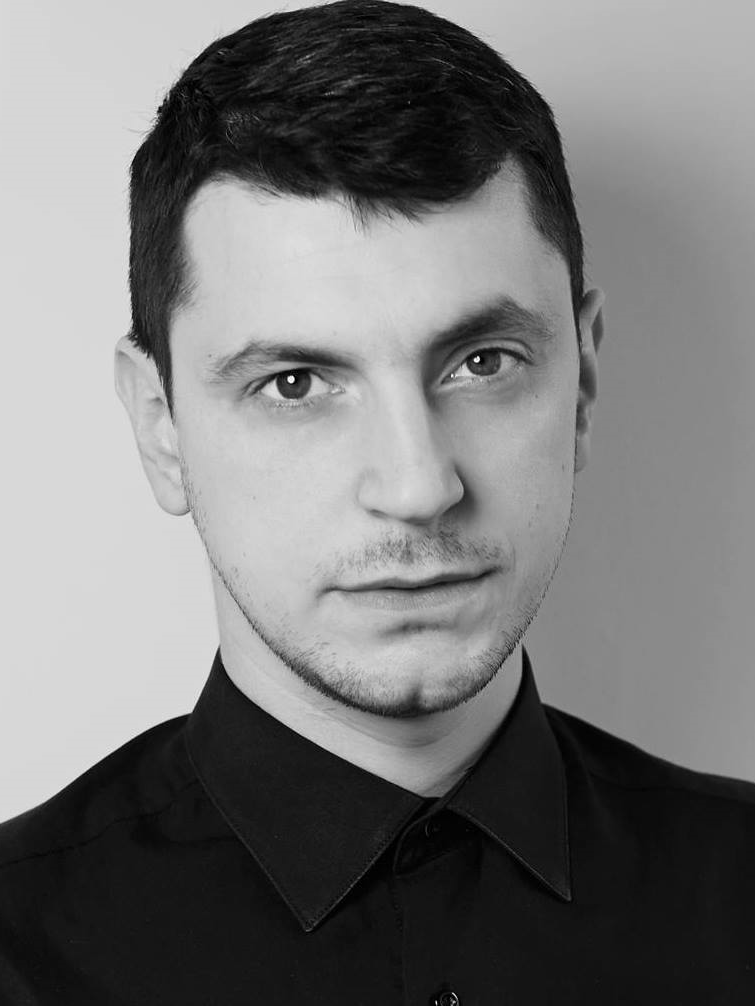
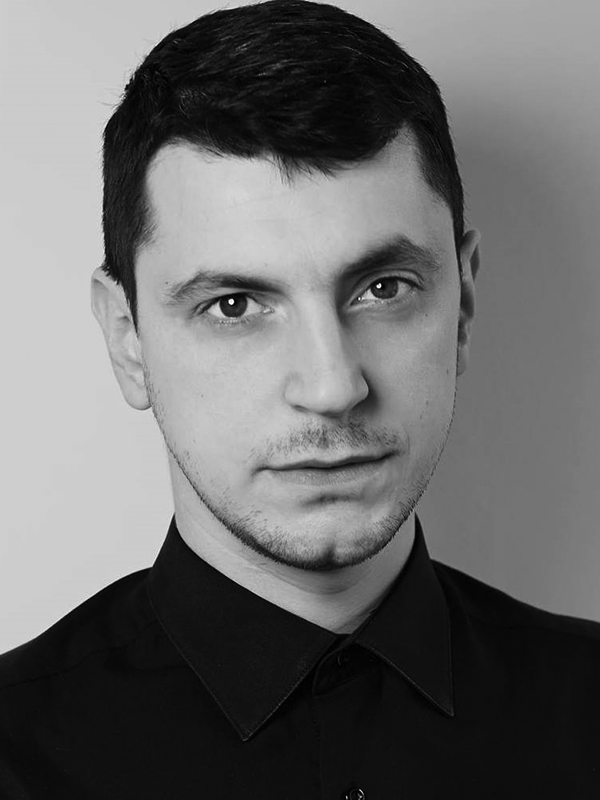
UI overhaul

diff --git a/speakers.html b/speakers.html
@@ -1,1 +1,1 @@
-<!DOCTYPE html><html lang="en"><head><meta charset="UTF-8"><meta name="viewport" content="width=device-width, initial-scale=1.0"><meta http-equiv="X-UA-Compatible" content="ie=edge"><meta property="og:title" content="LvivCSS 2019"><meta property="og:type" content="website"><meta property="og:image" content="https://lvivcss.org/assets/images/og-index/cover.jpg"><meta property="og:url" content="https://lvivcss.org/"><meta property="og:description" content="LvivCSS повертається, щоб стати ще кращою, цікавішою і найнезвичайнішою подією року! LvivCSS — конференція про симбіоз дизайну та розробки, про найкращі практики створення красивого і зручного. І, звичайно ж, це про дружню атмосферу, нові знайомства і нові враження! Не проґав свій шанс прийняти участь в одній з найкрутіших frontend-конференцій України!"><link rel="shortcut icon" href="./assets/icons/1x/favicon.png" type="image/x-icon"><link rel="stylesheet" href="css/fonts.css"><link rel="stylesheet" href="css/general.css"><link rel="stylesheet" href="css/layout.css"><link rel="stylesheet" href="css/typography.css"><link rel="stylesheet" href="css/logo.css"><link rel="stylesheet" href="css/nav.css" media="all"><link rel="stylesheet" href="css/nav.landscape.css" media="(orientation: landscape)"><link rel="stylesheet" href="css/nav.portrait.css" media="(orientation: portrait)"><title>LvivCSS'2019</title><link rel="stylesheet" href="css/speaker.css"></head><body class="page"><nav class="navigation"><a class="navigation-link" href="/">Головна</a><a class="navigation-link active" href="/speakers.html">Спікери</a><a class="navigation-link" href="/tickets.html">Квитки</a><a class="navigation-link" href="/partners.html">Партнери</a><a class="navigation-link" href="/contacts.html">Контакти</a><p class="rainbow-symbol navigation-header" tabindex="1"><span class="burger"><span class="burger-line"></span><span class="burger-line"></span><span class="burger-line"></span></span>Навігація</p></nav><div class="backdrop"></div><h1 class="logo small"><a href="./">LvivCSS'19</a></h1><h2 class="page-title sticky">Спікери</h2><section class="content columns"><article class="speaker-info"><h3>Ніч темна і повна dark pattern'ів</h3><h4>Олена Шпілевська</h4><img class="speaker-photo" src="/assets/images/speakers/shpilevska.png"><p>Розповість нам про найтемніші патерни (або патерни непрямої маніпуляції), які так полюбляє використовувати бізнес в погоні за прибутком, і які треба відсіювати на ранніх етапах розробки проекту.</p><p>Hard-boiled UX Architect, богиня верстки, щаслива, незламна мама випускників двох українських IT-шкіл і просто чудова, перманентно позитивна дівчина. Пропагує пацифізм у вирішенні конфліктів дизігнерів і девів, вчить основам людино-орієнтованого дизайну і обдуманої верстки. Любить карати злісних невиконувачів домашок і займатися йогою на галявинці ^^</p></article><article class="speaker-info"><h4>Юрій Артюх</h4><img class="speaker-photo" src="/assets/images/speakers/artyukh.png"><p>Юрій є парубок моторний, любить верстку та webgl, кавуни та бачату. Навіть якщо доповідь не зайде, зможе станцювати та розважити публіку. Наразі веде прямі трансляції на youtube та регулює технічні питання у своїй команді Coderiver. Скерував декілька мільйонів пікселів, зверстав понад 1000 макетів, провів понад 70 трансляцій про анімації, має сертифікат учасника чемпіонату з бачати, один раз випив 8 кавунових фрешів за добу.</p></article><article class="speaker-info"><h3>Без Bootstrap</h3><h4>Олександра Шинкевич</h4><img class="speaker-photo" src="/assets/images/speakers/shynkevych.png"><p>Фулстек-розробник на node.js, співорганізатор MinskCSS, MinskJS, CSS-Minsk-JS. Займається фронтендом ще зі школи, магістр технічних наук. Верстала ще таблицями, і за свою кар'єру розробника пройшла шлях від jQuery до VanillaJS, і назад до фреймворків Angular, React і Vue.js. А потім вигоріла і звільнилась з посади керівника відділу фронтенд-розробки.</p></article><p class="cliffhanger">…далі буде…</p></section></body></html>
+<!DOCTYPE html><html lang="en"><head><meta charset="UTF-8"><meta name="viewport" content="width=device-width, initial-scale=1.0"><meta http-equiv="X-UA-Compatible" content="ie=edge"><meta property="og:title" content="LvivCSS 2019"><meta property="og:type" content="website"><meta property="og:image" content="https://lvivcss.org/assets/images/og-index/cover.jpg"><meta property="og:url" content="https://lvivcss.org/"><meta property="og:description" content="LvivCSS повертається, щоб стати ще кращою, цікавішою і найнезвичайнішою подією року! LvivCSS — конференція про симбіоз дизайну та розробки, про найкращі практики створення красивого і зручного. І, звичайно ж, це про дружню атмосферу, нові знайомства і нові враження! Не проґав свій шанс прийняти участь в одній з найкрутіших frontend-конференцій України!"><link rel="shortcut icon" href="./assets/icons/1x/favicon.png" type="image/x-icon"><link rel="stylesheet" href="css/fonts.css"><link rel="stylesheet" href="css/general.css"><link rel="stylesheet" href="css/layout.css"><link rel="stylesheet" href="css/typography.css"><link rel="stylesheet" href="css/logo.css"><link rel="stylesheet" href="css/logo.320.css" media="(max-width: 320px)"><link rel="stylesheet" href="css/nav.css" media="all"><link rel="stylesheet" href="css/nav.landscape.css" media="(orientation: landscape)"><link rel="stylesheet" href="css/nav.portrait.css" media="(orientation: portrait)"><title>Спікери LvivCSS'2019</title><link rel="stylesheet" href="css/speaker.css"></head><body class="page"><nav class="navigation"><a class="navigation-link" href="/">Головна</a><a class="navigation-link active" href="/speakers.html">Спікери</a><a class="navigation-link" href="/tickets.html">Квитки</a><a class="navigation-link" href="/partners.html">Партнери</a><a class="navigation-link" href="/contacts.html">Контакти</a><p class="rainbow-symbol navigation-header" tabindex="1"><span class="burger"><span class="burger-line"></span><span class="burger-line"></span><span class="burger-line"></span></span>Навігація</p></nav><div class="backdrop"></div><h1 class="logo small"><a href="./">LvivCSS'19</a></h1><h2 class="page-title sticky">Наші спікери<a class="action-link" href="./call-for-papers.html">стати спікером</a></h2><section class="content columns"><article class="speaker-info"><h3>Ніч темна і повна dark pattern'ів</h3><h4>Олена Шпілевська</h4><img class="speaker-photo" src="/assets/images/speakers/shpilevska.jpg" alt="Олена Шпілевська"><p>Розповість нам про найтемніші патерни (або патерни непрямої маніпуляції), які так полюбляє використовувати бізнес в погоні за прибутком, і які треба відсіювати на ранніх етапах розробки проекту.</p><p>Hard-boiled UX Architect, богиня верстки, щаслива, незламна мама випускників двох українських IT-шкіл і просто чудова, перманентно позитивна дівчина. Пропагує пацифізм у вирішенні конфліктів дизігнерів і девів, вчить основам людино-орієнтованого дизайну і обдуманої верстки. Любить карати злісних невиконувачів домашок і займатися йогою на галявинці ^^</p></article><article class="speaker-info"><h4>Юрій Артюх</h4><img class="speaker-photo" src="/assets/images/speakers/artyukh.jpg" alt="Юрій Артюх"><p>Юрій є парубок моторний, любить верстку та webgl, кавуни та бачату. Навіть якщо доповідь не зайде, зможе станцювати та розважити публіку. Наразі веде прямі трансляції на youtube та регулює технічні питання у своїй команді Coderiver. Скерував декілька мільйонів пікселів, зверстав понад 1000 макетів, провів понад 70 трансляцій про анімації, має сертифікат учасника чемпіонату з бачати, один раз випив 8 кавунових фрешів за добу.</p></article><article class="speaker-info"><h3>Без Bootstrap</h3><h4>Олександра Шинкевич</h4><img class="speaker-photo" src="/assets/images/speakers/shynkevych.jpg" alt="Олександра Шинкевич"><p>Фулстек-розробник на node.js, співорганізатор MinskCSS, MinskJS, CSS-Minsk-JS. Займається фронтендом ще зі школи, магістр технічних наук. Верстала ще таблицями, і за свою кар'єру розробника пройшла шлях від jQuery до VanillaJS, і назад до фреймворків Angular, React і Vue.js. А потім вигоріла і звільнилась з посади керівника відділу фронтенд-розробки.</p></article><p class="cliffhanger">…далі буде…</p></section></body></html>

diff --git a/partners.html b/partners.html
@@ -1,1 +1,1 @@
-<!DOCTYPE html><html lang="en"><head><meta charset="UTF-8"><meta name="viewport" content="width=device-width, initial-scale=1.0"><meta http-equiv="X-UA-Compatible" content="ie=edge"><meta property="og:title" content="LvivCSS 2019"><meta property="og:type" content="website"><meta property="og:image" content="https://lvivcss.org/assets/images/og-index/cover.jpg"><meta property="og:url" content="https://lvivcss.org/"><meta property="og:description" content="LvivCSS повертається, щоб стати ще кращою, цікавішою і найнезвичайнішою подією року! LvivCSS — конференція про симбіоз дизайну та розробки, про найкращі практики створення красивого і зручного. І, звичайно ж, це про дружню атмосферу, нові знайомства і нові враження! Не проґав свій шанс прийняти участь в одній з найкрутіших frontend-конференцій України!"><link rel="shortcut icon" href="./assets/icons/1x/favicon.png" type="image/x-icon"><link rel="stylesheet" href="css/fonts.css"><link rel="stylesheet" href="css/general.css"><link rel="stylesheet" href="css/layout.css"><link rel="stylesheet" href="css/typography.css"><link rel="stylesheet" href="css/logo.css"><link rel="stylesheet" href="css/nav.css" media="all"><link rel="stylesheet" href="css/nav.landscape.css" media="(orientation: landscape)"><link rel="stylesheet" href="css/nav.portrait.css" media="(orientation: portrait)"><title>LvivCSS'2019</title><link rel="stylesheet" href="css/page.layout.css"><link rel="stylesheet" href="css/partners.css"></head><body class="page"><nav class="navigation"><a class="navigation-link" href="/">Головна</a><a class="navigation-link" href="/speakers.html">Спікери</a><a class="navigation-link" href="/tickets.html">Квитки</a><a class="navigation-link active" href="/partners.html">Партнери</a><a class="navigation-link" href="/contacts.html">Контакти</a><p class="rainbow-symbol navigation-header" tabindex="1"><span class="burger"><span class="burger-line"></span><span class="burger-line"></span><span class="burger-line"></span></span>Навігація</p></nav><div class="backdrop"></div><h1 class="logo small"><a href="./">LvivCSS'19</a><h2 class="page-title sticky">Партнери</h2></h1><main class="content"><section><h3>Золоті</h3><figure class="gold partner"><div class="partner-logo" style="background-image: url(assets/images/partners/coingaming.png)"></div><figcaption>Coingaming</figcaption></figure></section><section><h3>Срібні</h3><figure class="silver partner"><div class="partner-logo" style="background-image: url(assets/images/partners/newfire.png)"></div><figcaption>Newfire Partners</figcaption></figure></section><section><h3>Бронзові</h3><figure class="bronze partner"><div class="partner-logo" style="background-image: url(assets/images/partners/sigma.png)"></div><figcaption>Sigma Software</figcaption></figure></section><section><h3>Інформаційні</h3><figure class="info partner"><div class="partner-logo" style="background-image: url(assets/images/partners/vinnytsiajs.png)"></div><figcaption>VinnytsiaJS</figcaption></figure></section></main></body></html>
+<!DOCTYPE html><html lang="en"><head><meta charset="UTF-8"><meta name="viewport" content="width=device-width, initial-scale=1.0"><meta http-equiv="X-UA-Compatible" content="ie=edge"><meta property="og:title" content="LvivCSS 2019"><meta property="og:type" content="website"><meta property="og:image" content="https://lvivcss.org/assets/images/og-index/cover.jpg"><meta property="og:url" content="https://lvivcss.org/"><meta property="og:description" content="LvivCSS повертається, щоб стати ще кращою, цікавішою і найнезвичайнішою подією року! LvivCSS — конференція про симбіоз дизайну та розробки, про найкращі практики створення красивого і зручного. І, звичайно ж, це про дружню атмосферу, нові знайомства і нові враження! Не проґав свій шанс прийняти участь в одній з найкрутіших frontend-конференцій України!"><link rel="shortcut icon" href="./assets/icons/1x/favicon.png" type="image/x-icon"><link rel="stylesheet" href="css/fonts.css"><link rel="stylesheet" href="css/general.css"><link rel="stylesheet" href="css/layout.css"><link rel="stylesheet" href="css/typography.css"><link rel="stylesheet" href="css/logo.css"><link rel="stylesheet" href="css/logo.320.css" media="(max-width: 320px)"><link rel="stylesheet" href="css/nav.css" media="all"><link rel="stylesheet" href="css/nav.landscape.css" media="(orientation: landscape)"><link rel="stylesheet" href="css/nav.portrait.css" media="(orientation: portrait)"><title>Партнери LvivCSS'2019</title><link rel="stylesheet" href="css/page.layout.css"><link rel="stylesheet" href="css/partners.css"></head><body class="page"><nav class="navigation"><a class="navigation-link" href="/">Головна</a><a class="navigation-link" href="/speakers.html">Спікери</a><a class="navigation-link" href="/tickets.html">Квитки</a><a class="navigation-link active" href="/partners.html">Партнери</a><a class="navigation-link" href="/contacts.html">Контакти</a><p class="rainbow-symbol navigation-header" tabindex="1"><span class="burger"><span class="burger-line"></span><span class="burger-line"></span><span class="burger-line"></span></span>Навігація</p></nav><div class="backdrop"></div><h1 class="logo small"><a href="./">LvivCSS'19</a></h1><h2 class="page-title sticky">Наші партнери<a class="action-link" href="./partnership.html">стати нашим партнером</a></h2><main class="content"><section><h3>Золоті</h3><figure class="gold partner"><div class="partner-logo" style="background-image: url(assets/images/partners/coingaming.png)"></div><figcaption>Coingaming</figcaption></figure></section><section><h3>Срібні</h3><figure class="silver partner"><div class="partner-logo" style="background-image: url(assets/images/partners/newfire.png)"></div><figcaption>Newfire Partners</figcaption></figure></section><section><h3>Бронзові</h3><figure class="bronze partner"><div class="partner-logo" style="background-image: url(assets/images/partners/sigma.png)"></div><figcaption>Sigma Software</figcaption></figure></section><section><h3>Інформаційні</h3><figure class="info partner"><div class="partner-logo" style="background-image: url(assets/images/partners/vinnytsiajs.png)"></div><figcaption>VinnytsiaJS</figcaption></figure></section></main></body></html>

diff --git a/contacts.html b/contacts.html
@@ -1,1 +1,1 @@
-<!DOCTYPE html><html lang="en"><head><meta charset="UTF-8"><meta name="viewport" content="width=device-width, initial-scale=1.0"><meta http-equiv="X-UA-Compatible" content="ie=edge"><meta property="og:title" content="LvivCSS 2019"><meta property="og:type" content="website"><meta property="og:image" content="https://lvivcss.org/assets/images/og-index/cover.jpg"><meta property="og:url" content="https://lvivcss.org/"><meta property="og:description" content="LvivCSS повертається, щоб стати ще кращою, цікавішою і найнезвичайнішою подією року! LvivCSS — конференція про симбіоз дизайну та розробки, про найкращі практики створення красивого і зручного. І, звичайно ж, це про дружню атмосферу, нові знайомства і нові враження! Не проґав свій шанс прийняти участь в одній з найкрутіших frontend-конференцій України!"><link rel="shortcut icon" href="./assets/icons/1x/favicon.png" type="image/x-icon"><link rel="stylesheet" href="css/fonts.css"><link rel="stylesheet" href="css/general.css"><link rel="stylesheet" href="css/layout.css"><link rel="stylesheet" href="css/typography.css"><link rel="stylesheet" href="css/logo.css"><link rel="stylesheet" href="css/nav.css" media="all"><link rel="stylesheet" href="css/nav.landscape.css" media="(orientation: landscape)"><link rel="stylesheet" href="css/nav.portrait.css" media="(orientation: portrait)"><link rel="stylesheet" href="css/layout.css"><link rel="stylesheet" href="css/hero.layout.css"><title>LvivCSS'2019</title></head><body><nav class="navigation"><a class="navigation-link" href="/">Головна</a><a class="navigation-link" href="/speakers.html">Спікери</a><a class="navigation-link" href="/tickets.html">Квитки</a><a class="navigation-link" href="/partners.html">Партнери</a><a class="navigation-link active" href="/contacts.html">Контакти</a><p class="rainbow-symbol navigation-header" tabindex="1"><span class="burger"><span class="burger-line"></span><span class="burger-line"></span><span class="burger-line"></span></span>Навігація</p></nav><div class="backdrop"></div><section class="hero"><h1><a href="./"><span class="logo">LvivCSS'19</span></a></h1><p><time class="conference-date" datetime="2019-11-02">2 листопада 2019</time><address class="conference-address"><a href="https://goo.gl/maps/m17XLnBE8UHEeM1n6" target="_blank"><b>MolodoZeleno</b>, вул. Джерельна 20, м. Львів</a></address></p></section><section class="content"><p>Нам можна <b>писати:</b></p><a href="mailto:lvivcss@outlook.com">lvivcss@outlook.com</a><p>Нам можна <b>телефонувати:</b></p><ul><li>Сергій: <a href="tel:+380635657098">+380 63 565 70 98</a></li><li>Марія: <a href="tel:+380635657098">+380 63 565 70 98</a></li><li>Наталя: <a href="tel:+380635657098">+380 63 565 70 98</a></li></ul></section></body></html>
+<!DOCTYPE html><html lang="en"><head><meta charset="UTF-8"><meta name="viewport" content="width=device-width, initial-scale=1.0"><meta http-equiv="X-UA-Compatible" content="ie=edge"><meta property="og:title" content="LvivCSS 2019"><meta property="og:type" content="website"><meta property="og:image" content="https://lvivcss.org/assets/images/og-index/cover.jpg"><meta property="og:url" content="https://lvivcss.org/"><meta property="og:description" content="LvivCSS повертається, щоб стати ще кращою, цікавішою і найнезвичайнішою подією року! LvivCSS — конференція про симбіоз дизайну та розробки, про найкращі практики створення красивого і зручного. І, звичайно ж, це про дружню атмосферу, нові знайомства і нові враження! Не проґав свій шанс прийняти участь в одній з найкрутіших frontend-конференцій України!"><link rel="shortcut icon" href="./assets/icons/1x/favicon.png" type="image/x-icon"><link rel="stylesheet" href="css/fonts.css"><link rel="stylesheet" href="css/general.css"><link rel="stylesheet" href="css/layout.css"><link rel="stylesheet" href="css/typography.css"><link rel="stylesheet" href="css/logo.css"><link rel="stylesheet" href="css/logo.320.css" media="(max-width: 320px)"><link rel="stylesheet" href="css/nav.css" media="all"><link rel="stylesheet" href="css/nav.landscape.css" media="(orientation: landscape)"><link rel="stylesheet" href="css/nav.portrait.css" media="(orientation: portrait)"><link rel="stylesheet" href="css/layout.css"><link rel="stylesheet" href="css/hero.layout.css"><link rel="stylesheet" href="css/hero.layout.portrait.css" media="(orientation: portrait)"><title>LvivCSS'2019</title></head><body><nav class="navigation"><a class="navigation-link" href="/">Головна</a><a class="navigation-link" href="/speakers.html">Спікери</a><a class="navigation-link" href="/tickets.html">Квитки</a><a class="navigation-link" href="/partners.html">Партнери</a><a class="navigation-link active" href="/contacts.html">Контакти</a><p class="rainbow-symbol navigation-header" tabindex="1"><span class="burger"><span class="burger-line"></span><span class="burger-line"></span><span class="burger-line"></span></span>Навігація</p></nav><div class="backdrop"></div><section class="hero"><h1><a href="./"><span class="logo">LvivCSS'19</span></a></h1><p><time class="conference-date" datetime="2019-11-02">2 листопада 2019</time><address class="conference-address"><a href="https://goo.gl/maps/m17XLnBE8UHEeM1n6" target="_blank"><b>MolodoZeleno</b>, вул. Джерельна 20, м. Львів</a></address></p></section><section class="content"><p>Нам можна <b>писати:</b></p><a href="mailto:lvivcss@outlook.com">lvivcss@outlook.com</a><p>Нам можна <b>телефонувати:</b></p><ul><li>Сергій: <a href="tel:+380635657098">+380 63 565 70 98</a></li><li>Марія: <a href="tel:+380935924040">+380 93 592 40 40</a></li><li>Наталя: <a href="tel:+380508568637">+380 50 856 86 37</a></li></ul></section></body></html>

diff --git a/index.html b/index.html
@@ -1,2 +1,2 @@
-<!DOCTYPE html><html lang="en"><head><meta charset="UTF-8"><meta name="viewport" content="width=device-width, initial-scale=1.0"><meta http-equiv="X-UA-Compatible" content="ie=edge"><meta property="og:title" content="LvivCSS 2019"><meta property="og:type" content="website"><meta property="og:image" content="https://lvivcss.org/assets/images/og-index/cover.jpg"><meta property="og:url" content="https://lvivcss.org/"><meta property="og:description" content="LvivCSS повертається, щоб стати ще кращою, цікавішою і найнезвичайнішою подією року! LvivCSS — конференція про симбіоз дизайну та розробки, про найкращі практики створення красивого і зручного. І, звичайно ж, це про дружню атмосферу, нові знайомства і нові враження! Не проґав свій шанс прийняти участь в одній з найкрутіших frontend-конференцій України!"><link rel="shortcut icon" href="./assets/icons/1x/favicon.png" type="image/x-icon"><link rel="stylesheet" href="css/fonts.css"><link rel="stylesheet" href="css/general.css"><link rel="stylesheet" href="css/layout.css"><link rel="stylesheet" href="css/typography.css"><link rel="stylesheet" href="css/logo.css"><link rel="stylesheet" href="css/nav.css" media="all"><link rel="stylesheet" href="css/nav.landscape.css" media="(orientation: landscape)"><link rel="stylesheet" href="css/nav.portrait.css" media="(orientation: portrait)"><meta name="description" content="LvivCSS'19, найяскравіша конференція України"><link rel="stylesheet" href="css/hero.layout.css"><link rel="stylesheet" href="css/hero.layout.portrait.css" media="(orientation: portrait)"><title>LvivCSS'2019</title></head><body><nav class="navigation"><a class="navigation-link active" href="/">Головна</a><a class="navigation-link" href="/speakers.html">Спікери</a><a class="navigation-link" href="/tickets.html">Квитки</a><a class="navigation-link" href="/partners.html">Партнери</a><a class="navigation-link" href="/contacts.html">Контакти</a><p class="rainbow-symbol navigation-header" tabindex="1"><span class="burger"><span class="burger-line"></span><span class="burger-line"></span><span class="burger-line"></span></span>Навігація</p></nav><div class="backdrop"></div><section class="hero"><h1><span class="logo">LvivCSS'19</span></h1><p><time class="conference-date" datetime="2019-11-02">2 листопада 2019</time><address class="conference-address"><a href="https://goo.gl/maps/m17XLnBE8UHEeM1n6" target="_blank" rel="noreferrer"><b>MolodoZeleno</b>,
+<!DOCTYPE html><html lang="en"><head><meta charset="UTF-8"><meta name="viewport" content="width=device-width, initial-scale=1.0"><meta http-equiv="X-UA-Compatible" content="ie=edge"><meta property="og:title" content="LvivCSS 2019"><meta property="og:type" content="website"><meta property="og:image" content="https://lvivcss.org/assets/images/og-index/cover.jpg"><meta property="og:url" content="https://lvivcss.org/"><meta property="og:description" content="LvivCSS повертається, щоб стати ще кращою, цікавішою і найнезвичайнішою подією року! LvivCSS — конференція про симбіоз дизайну та розробки, про найкращі практики створення красивого і зручного. І, звичайно ж, це про дружню атмосферу, нові знайомства і нові враження! Не проґав свій шанс прийняти участь в одній з найкрутіших frontend-конференцій України!"><link rel="shortcut icon" href="./assets/icons/1x/favicon.png" type="image/x-icon"><link rel="stylesheet" href="css/fonts.css"><link rel="stylesheet" href="css/general.css"><link rel="stylesheet" href="css/layout.css"><link rel="stylesheet" href="css/typography.css"><link rel="stylesheet" href="css/logo.css"><link rel="stylesheet" href="css/logo.320.css" media="(max-width: 320px)"><link rel="stylesheet" href="css/nav.css" media="all"><link rel="stylesheet" href="css/nav.landscape.css" media="(orientation: landscape)"><link rel="stylesheet" href="css/nav.portrait.css" media="(orientation: portrait)"><meta name="description" content="LvivCSS'19, найяскравіша конференція України"><link rel="stylesheet" href="css/hero.layout.css"><link rel="stylesheet" href="css/hero.layout.portrait.css" media="(orientation: portrait)"><title>LvivCSS'2019</title></head><body><nav class="navigation"><a class="navigation-link active" href="/">Головна</a><a class="navigation-link" href="/speakers.html">Спікери</a><a class="navigation-link" href="/tickets.html">Квитки</a><a class="navigation-link" href="/partners.html">Партнери</a><a class="navigation-link" href="/contacts.html">Контакти</a><p class="rainbow-symbol navigation-header" tabindex="1"><span class="burger"><span class="burger-line"></span><span class="burger-line"></span><span class="burger-line"></span></span>Навігація</p></nav><div class="backdrop"></div><section class="hero"><h1><span class="logo">LvivCSS'19</span></h1><p><time class="conference-date" datetime="2019-11-02">2 листопада 2019</time><address class="conference-address"><a href="https://goo.gl/maps/m17XLnBE8UHEeM1n6" target="_blank" rel="noreferrer"><b>MolodoZeleno</b>,
 вул. Джерельна 20, м. Львів</a></address></p></section><section class="content"><p>Це <b>конференція</b> про симбіоз дизайну та розробки.</p><p>Це <b>подія</b> про найкращі практики створення красивого і зручного фронтенду.</p><p>Це доповіді, що дійсно <b>важливі</b>.</p><p><a class="link important" href="/tickets.html">придбати квиток</a></p><p>Слідкуй за нами в <a href="https://t.me/lvivcss">telegram-каналі</a></p><p>Долучайся до події у  <a href="https://www.facebook.com/events/491374968072733/">facebook</a></p></section></body></html>

diff --git a/tickets.html b/tickets.html
@@ -1,1 +1,1 @@
-<!DOCTYPE html><html lang="en"><head><meta charset="UTF-8"><meta name="viewport" content="width=device-width, initial-scale=1.0"><meta http-equiv="X-UA-Compatible" content="ie=edge"><meta property="og:title" content="LvivCSS 2019"><meta property="og:type" content="website"><meta property="og:image" content="https://lvivcss.org/assets/images/og-index/cover.jpg"><meta property="og:url" content="https://lvivcss.org/"><meta property="og:description" content="LvivCSS повертається, щоб стати ще кращою, цікавішою і найнезвичайнішою подією року! LvivCSS — конференція про симбіоз дизайну та розробки, про найкращі практики створення красивого і зручного. І, звичайно ж, це про дружню атмосферу, нові знайомства і нові враження! Не проґав свій шанс прийняти участь в одній з найкрутіших frontend-конференцій України!"><link rel="shortcut icon" href="./assets/icons/1x/favicon.png" type="image/x-icon"><link rel="stylesheet" href="css/fonts.css"><link rel="stylesheet" href="css/general.css"><link rel="stylesheet" href="css/layout.css"><link rel="stylesheet" href="css/typography.css"><link rel="stylesheet" href="css/logo.css"><link rel="stylesheet" href="css/nav.css" media="all"><link rel="stylesheet" href="css/nav.landscape.css" media="(orientation: landscape)"><link rel="stylesheet" href="css/nav.portrait.css" media="(orientation: portrait)"><title>LvivCSS'2019</title><link rel="stylesheet" href="css/hero.layout.css"></head><body><nav class="navigation"><a class="navigation-link" href="/">Головна</a><a class="navigation-link" href="/speakers.html">Спікери</a><a class="navigation-link active" href="/tickets.html">Квитки</a><a class="navigation-link" href="/partners.html">Партнери</a><a class="navigation-link" href="/contacts.html">Контакти</a><p class="rainbow-symbol navigation-header" tabindex="1"><span class="burger"><span class="burger-line"></span><span class="burger-line"></span><span class="burger-line"></span></span>Навігація</p></nav><div class="backdrop"></div><section class="hero"><h1><span class="logo">LvivCSS'19</span></h1><p><time class="conference-date" datetime="2019-11-02">2 листопада 2019</time><address class="conference-address"><a href="https://goo.gl/maps/m17XLnBE8UHEeM1n6" target="_blank"><b>MolodoZeleno</b>, вул. Джерельна 20, м. Львів</a></address></p></section><section class="content"><script type="text/javascript" src="https://lvivcss2019.ticketforevent.com/uk/widget/?h=0&s=0&bt=1&template=flatwhite"></script></section></body></html>
+<!DOCTYPE html><html lang="en"><head><meta charset="UTF-8"><meta name="viewport" content="width=device-width, initial-scale=1.0"><meta http-equiv="X-UA-Compatible" content="ie=edge"><meta property="og:title" content="LvivCSS 2019"><meta property="og:type" content="website"><meta property="og:image" content="https://lvivcss.org/assets/images/og-index/cover.jpg"><meta property="og:url" content="https://lvivcss.org/"><meta property="og:description" content="LvivCSS повертається, щоб стати ще кращою, цікавішою і найнезвичайнішою подією року! LvivCSS — конференція про симбіоз дизайну та розробки, про найкращі практики створення красивого і зручного. І, звичайно ж, це про дружню атмосферу, нові знайомства і нові враження! Не проґав свій шанс прийняти участь в одній з найкрутіших frontend-конференцій України!"><link rel="shortcut icon" href="./assets/icons/1x/favicon.png" type="image/x-icon"><link rel="stylesheet" href="css/fonts.css"><link rel="stylesheet" href="css/general.css"><link rel="stylesheet" href="css/layout.css"><link rel="stylesheet" href="css/typography.css"><link rel="stylesheet" href="css/logo.css"><link rel="stylesheet" href="css/logo.320.css" media="(max-width: 320px)"><link rel="stylesheet" href="css/nav.css" media="all"><link rel="stylesheet" href="css/nav.landscape.css" media="(orientation: landscape)"><link rel="stylesheet" href="css/nav.portrait.css" media="(orientation: portrait)"><title>LvivCSS'2019</title><link rel="stylesheet" href="css/hero.layout.css"><link rel="stylesheet" href="css/hero.layout.portrait.css" media="(orientation: portrait)"></head><body><nav class="navigation"><a class="navigation-link" href="/">Головна</a><a class="navigation-link" href="/speakers.html">Спікери</a><a class="navigation-link active" href="/tickets.html">Квитки</a><a class="navigation-link" href="/partners.html">Партнери</a><a class="navigation-link" href="/contacts.html">Контакти</a><p class="rainbow-symbol navigation-header" tabindex="1"><span class="burger"><span class="burger-line"></span><span class="burger-line"></span><span class="burger-line"></span></span>Навігація</p></nav><div class="backdrop"></div><section class="hero"><h1><span class="logo">LvivCSS'19</span></h1><p><time class="conference-date" datetime="2019-11-02">2 листопада 2019</time><address class="conference-address"><a href="https://goo.gl/maps/m17XLnBE8UHEeM1n6" target="_blank"><b>MolodoZeleno</b>, вул. Джерельна 20, м. Львів</a></address></p></section><section class="content"><script type="text/javascript" src="https://lvivcss2019.ticketforevent.com/uk/widget/?h=0&s=0&bt=1&template=flatwhite"></script></section></body></html>

diff --git a/call-for-papers.html b/call-for-papers.html
@@ -1,1 +1,1 @@
-<!DOCTYPE html><html lang="en"><head><meta charset="UTF-8"><meta name="viewport" content="width=device-width, initial-scale=1.0"><meta http-equiv="X-UA-Compatible" content="ie=edge"><meta property="og:title" content="LvivCSS 2019"><meta property="og:type" content="website"><meta property="og:image" content="https://lvivcss.org/assets/images/og-index/cover.jpg"><meta property="og:url" content="https://lvivcss.org/"><meta property="og:description" content="LvivCSS повертається, щоб стати ще кращою, цікавішою і найнезвичайнішою подією року! LvivCSS — конференція про симбіоз дизайну та розробки, про найкращі практики створення красивого і зручного. І, звичайно ж, це про дружню атмосферу, нові знайомства і нові враження! Не проґав свій шанс прийняти участь в одній з найкрутіших frontend-конференцій України!"><link rel="shortcut icon" href="./assets/icons/1x/favicon.png" type="image/x-icon"><link rel="stylesheet" href="css/fonts.css"><link rel="stylesheet" href="css/general.css"><link rel="stylesheet" href="css/layout.css"><link rel="stylesheet" href="css/typography.css"><link rel="stylesheet" href="css/logo.css"><link rel="stylesheet" href="css/nav.css" media="all"><link rel="stylesheet" href="css/nav.landscape.css" media="(orientation: landscape)"><link rel="stylesheet" href="css/nav.portrait.css" media="(orientation: portrait)"><title>LvivCSS'2019</title><link rel="stylesheet" href="css/speaker.css"></head><body class="page"><nav class="navigation"><a class="navigation-link" href="/">Головна</a><a class="navigation-link active" href="/speakers.html">Спікери</a><a class="navigation-link" href="/tickets.html">Квитки</a><a class="navigation-link" href="/partners.html">Партнери</a><a class="navigation-link" href="/contacts.html">Контакти</a><p class="rainbow-symbol navigation-header" tabindex="1"><span class="burger"><span class="burger-line"></span><span class="burger-line"></span><span class="burger-line"></span></span>Навігація</p></nav><div class="backdrop"></div><header class="sticky-header"><h2>Стати спікером</h2></header><main class="main"><iframe src="https://docs.google.com/forms/d/e/1FAIpQLScQdBWmp7seXmeqPNBKo4cyzqrcx9i2LPwJp-1684-VcKYUsA/viewform?embedded=true" width="100%" height="3029" frameborder="0" marginheight="0" marginwidth="0">Loading…</iframe></main></body></html>
+<!DOCTYPE html><html lang="en"><head><meta charset="UTF-8"><meta name="viewport" content="width=device-width, initial-scale=1.0"><meta http-equiv="X-UA-Compatible" content="ie=edge"><meta property="og:title" content="LvivCSS 2019"><meta property="og:type" content="website"><meta property="og:image" content="https://lvivcss.org/assets/images/og-index/cover.jpg"><meta property="og:url" content="https://lvivcss.org/"><meta property="og:description" content="LvivCSS повертається, щоб стати ще кращою, цікавішою і найнезвичайнішою подією року! LvivCSS — конференція про симбіоз дизайну та розробки, про найкращі практики створення красивого і зручного. І, звичайно ж, це про дружню атмосферу, нові знайомства і нові враження! Не проґав свій шанс прийняти участь в одній з найкрутіших frontend-конференцій України!"><link rel="shortcut icon" href="./assets/icons/1x/favicon.png" type="image/x-icon"><link rel="stylesheet" href="css/fonts.css"><link rel="stylesheet" href="css/general.css"><link rel="stylesheet" href="css/layout.css"><link rel="stylesheet" href="css/typography.css"><link rel="stylesheet" href="css/logo.css"><link rel="stylesheet" href="css/logo.320.css" media="(max-width: 320px)"><link rel="stylesheet" href="css/nav.css" media="all"><link rel="stylesheet" href="css/nav.landscape.css" media="(orientation: landscape)"><link rel="stylesheet" href="css/nav.portrait.css" media="(orientation: portrait)"><title>LvivCSS'2019</title><link rel="stylesheet" href="css/page.layout.css"><style>iframe{margin-top:1rem}</style></head><body class="page"><nav class="navigation"><a class="navigation-link" href="/">Головна</a><a class="navigation-link active" href="/speakers.html">Спікери</a><a class="navigation-link" href="/tickets.html">Квитки</a><a class="navigation-link" href="/partners.html">Партнери</a><a class="navigation-link" href="/contacts.html">Контакти</a><p class="rainbow-symbol navigation-header" tabindex="1"><span class="burger"><span class="burger-line"></span><span class="burger-line"></span><span class="burger-line"></span></span>Навігація</p></nav><div class="backdrop"></div><h1 class="logo small"><a href="./">LvivCSS'19</a></h1><h2 class="page-title sticky">Стати спікером</h2><main class="content"><iframe src="https://docs.google.com/forms/d/e/1FAIpQLScQdBWmp7seXmeqPNBKo4cyzqrcx9i2LPwJp-1684-VcKYUsA/viewform?embedded=true" width="100%" height="3029" frameborder="0" marginheight="0">Loading…</iframe></main></body></html>

diff --git a/css/nav.portrait.css b/css/nav.portrait.css
@@ -58,26 +58,20 @@
 }
 
 .burger {
-	display: inline-flex;
-	flex-direction: column;
+	display: inline-block;
 	width: 12px;
 	height: 9px;
 	margin-right: 0.4rem;
-	justify-content: space-between;
-}
-
-.burger-line {
-	display: block;
-	width: 100%;
-	height: 1px;
-	animation: burger 30s infinite;
-	background-color: var(--base-font-color);
-}
-
-.burger-line:nth-child(2) {
-	animation-delay: 100ms;
-}
-
-.burger-line:nth-child(3) {
-	animation-delay: 200ms;
+	background-image: linear-gradient(
+		black 0px,
+		black 1px,
+		transparent 1px,
+		transparent 4px,
+		black 4px,
+		black 5px,
+		transparent 5px,
+		transparent 8px,
+		black 8px,
+		black 9px
+	);
 }

diff --git a/css/logo.css b/css/logo.css
@@ -13,7 +13,7 @@
 }
 
 .logo.small {
-  margin-top: 2rem;
+  margin-top: 1rem;
 	font-size: calc(var(--logo-font-size) / 2);
 }
 
@@ -27,21 +27,10 @@
 }
 
 @media screen {
-  @media (max-width: 1366px) {
-    :root { --logo-font-size: 5rem; }
-  }
-  
-  @media (max-width: 1024px) {
-    :root { --logo-font-size: 4rem; }
-  }
-  
-  @media (max-width: 980px) {
-    :root { --logo-font-size: 3rem; }
-  }
   
   @media (max-width: 320px) {
     :root {
-      --logo-font-size: 2rem;
+      --logo-font-size: 4rem;
     }
   }
 }

diff --git a/css/page.layout.css b/css/page.layout.css
@@ -35,11 +35,12 @@ body {
 
 .page-title {
   display: flex;
+  flex-direction: column;
   border-bottom: 1px solid grey;
   background-color: white;
   grid-area: header;
   justify-content: space-between;
-  align-items: center;
+  align-items: flex-start;
 }
 
 @media (orientation: portrait) {
@@ -59,6 +60,7 @@ body {
 
   body {
     margin: 0 1rem;
-    grid-template-rows: var(--navigation-size) repeat(3, min-content);;
+    grid-template-rows: var(--navigation-size) repeat(3, min-content);
+    ;
   }
 }

diff --git a/css/general.css b/css/general.css
@@ -23,8 +23,18 @@ html {
   color: #333;
 }
 
+.action-link {
+  font-weight: bold;
+  font-size: 1rem;
+}
+
 ul {
   margin-left: 1rem;
+  margin-top: 1rem;
+}
+
+li {
+  margin-bottom: 0.5rem;
 }
 
 a {
@@ -49,11 +59,6 @@ a:hover {
 
 .link.not-so.important {
   font-size: 1rem;
-}
-
-.link.important::before {
-  content: "→ ";
-  color: var(--base-font-color);
 }
 
 @media (max-width: 980px) {

diff --git a/css/speaker.css b/css/speaker.css
@@ -1,7 +1,3 @@
-@import "typography.css";
-@import "fonts.css";
-@import "general.css";
-@import "layout.css";
 @import "page.layout.css";
 
 :root {

diff --git a/css/logo.320.css b/css/logo.320.css
@@ -1,0 +1,3 @@
+:root {
+	--logo-font-size: 4rem;
+}
